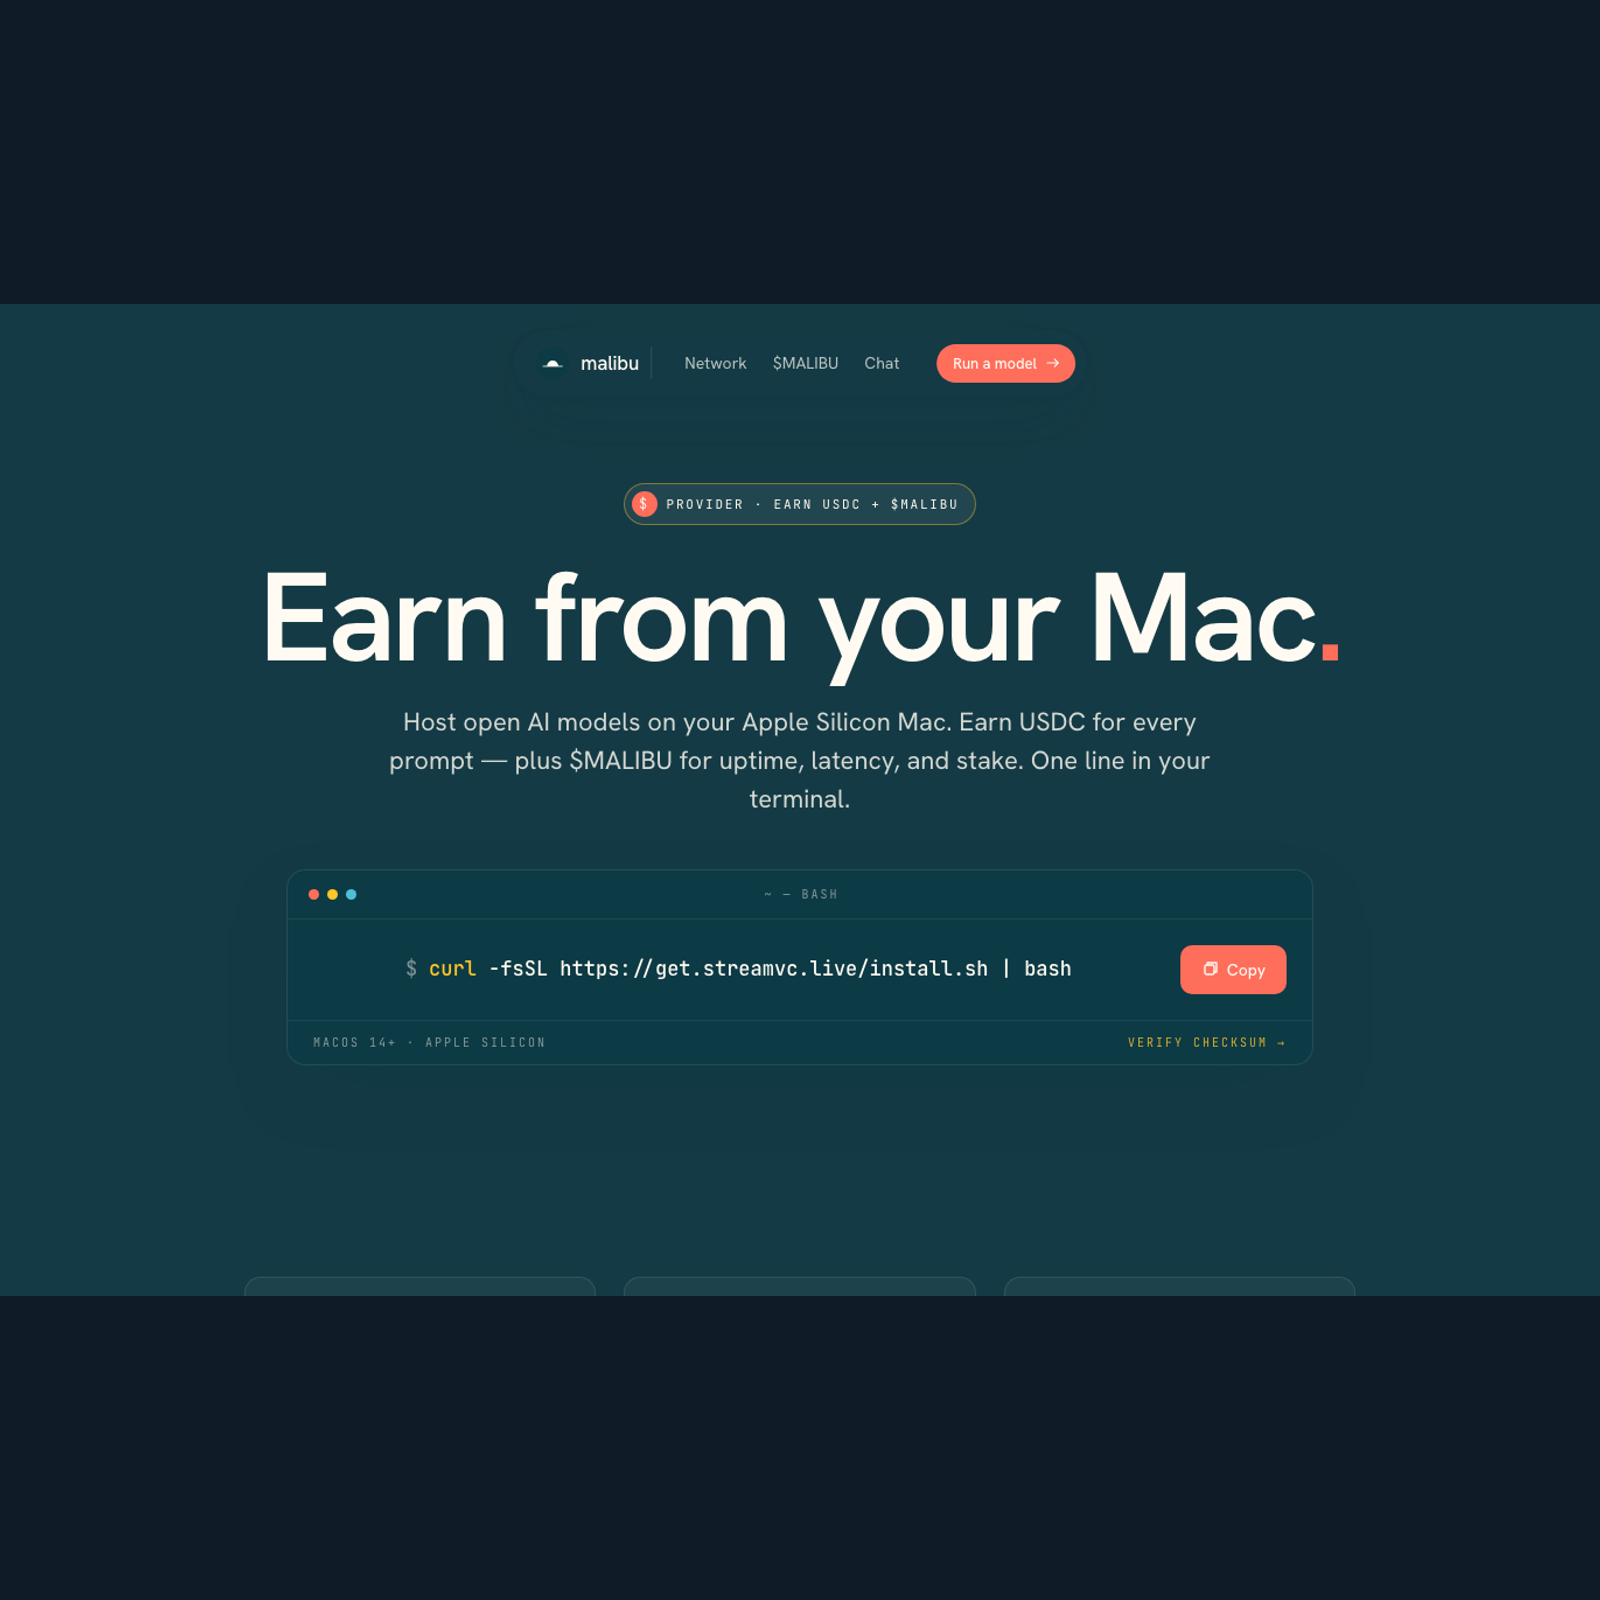
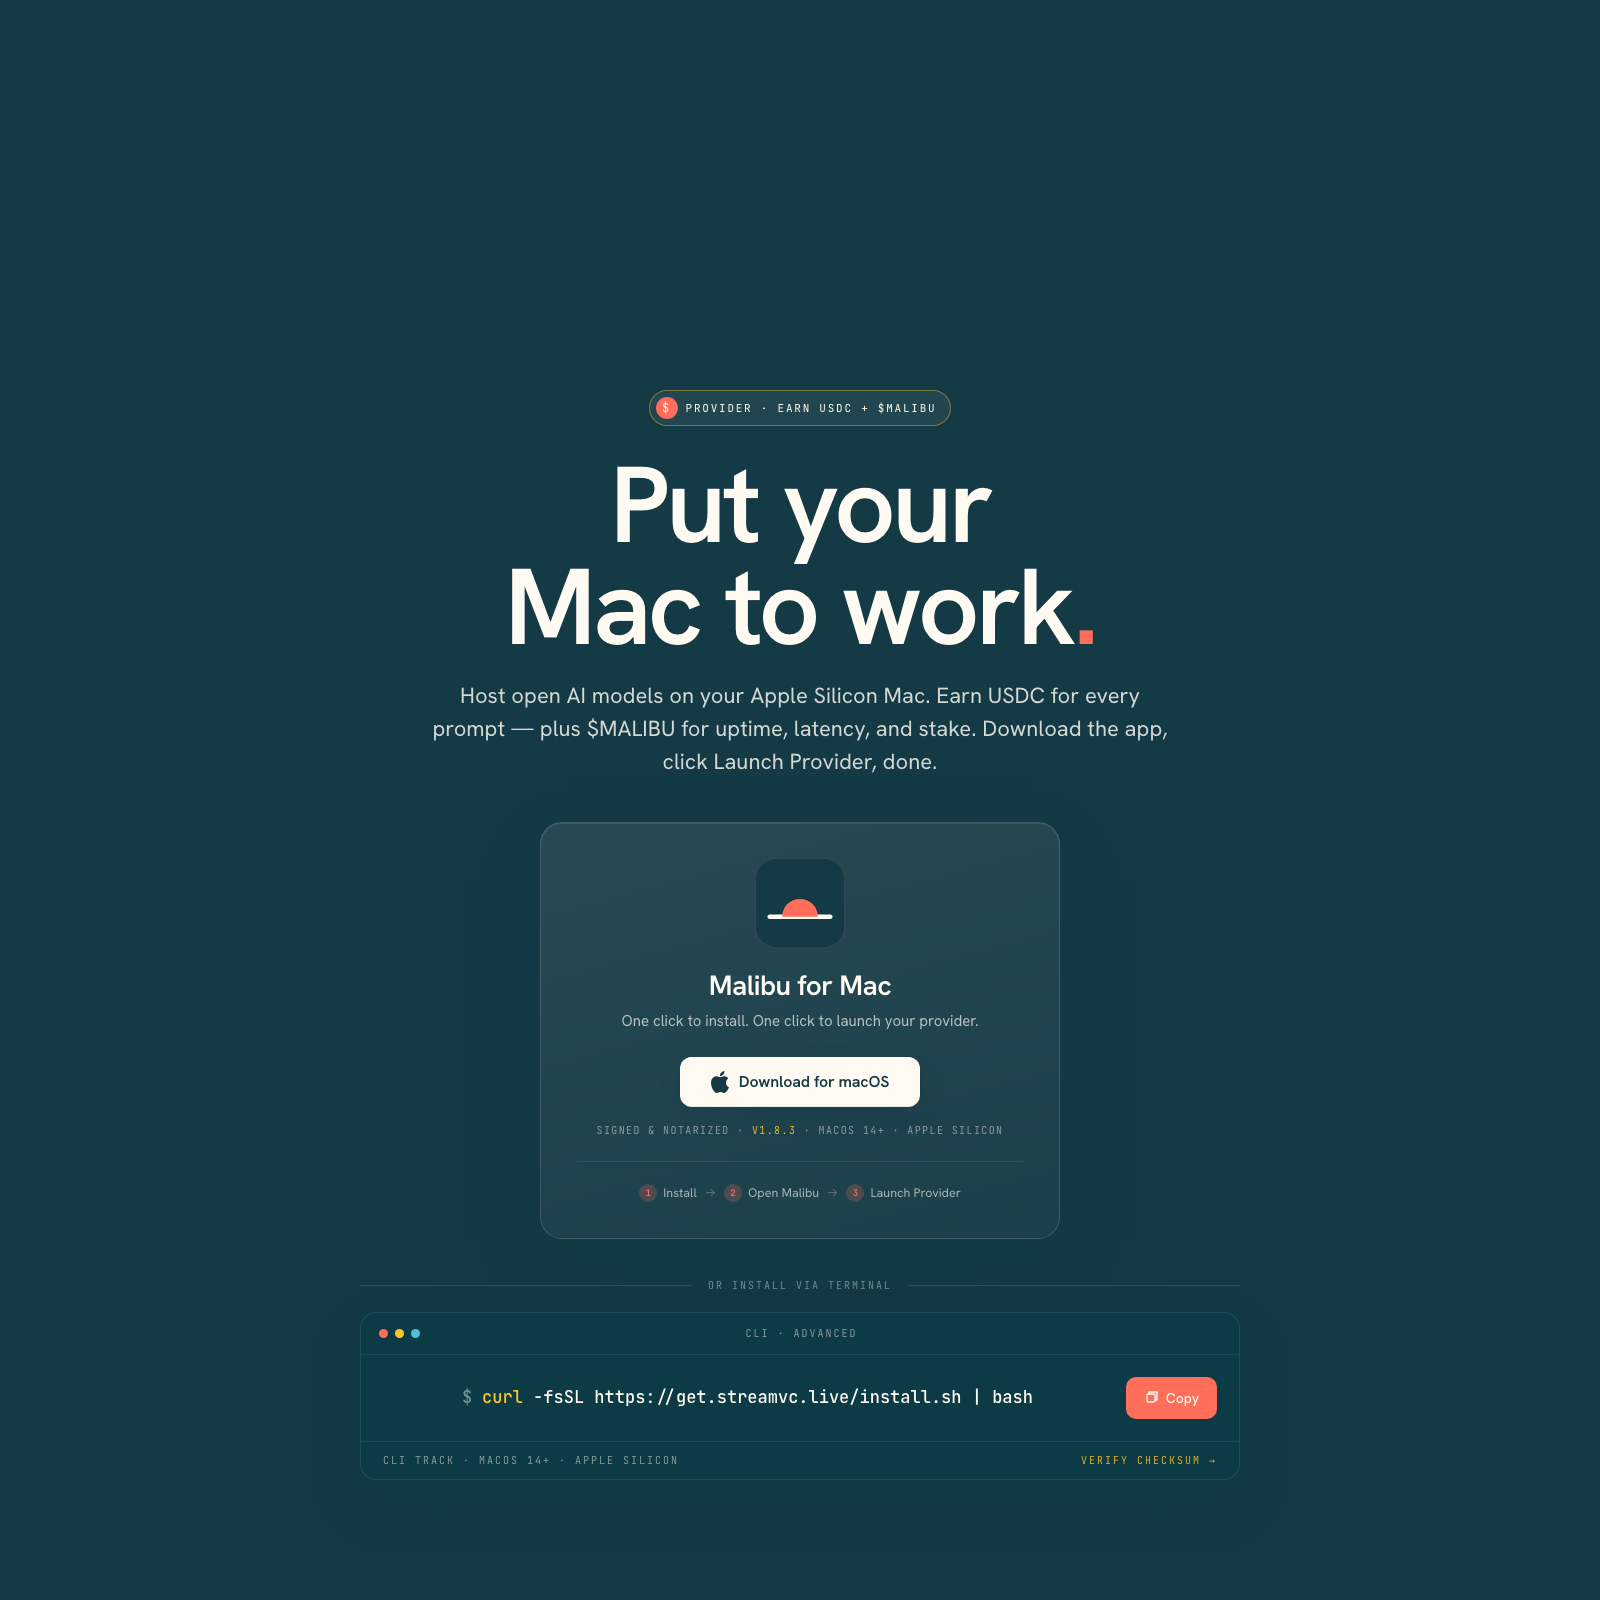
site: rewrite host hero to 'Put your Mac to work' and refresh tile mockup
Update /host/ hero headline and regenerate the Host tile mockup image to match. Strip nav from the mockup and pad the top so the full 'Put your / Mac to work.' title reads inside the tile crop, plus a bottom fade so the download card blends into the tile background.

diff --git a/index.html b/index.html
@@ -177,7 +177,7 @@
               <img src="/images/brand/card-sell-mac-window.png" alt="Malibu host app earning from a Mac" style="position: absolute; inset: 0; width: 100%; height: 100%; object-fit: cover;" />
             </picture>
             <div aria-hidden="true" style="position: absolute; inset: 0; background: linear-gradient(180deg, rgba(79, 191, 212,0.30) 0%, transparent 35%); pointer-events: none;"></div>
-            <div aria-hidden="true" style="position: absolute; inset: 0; background: linear-gradient(180deg, transparent 60%, rgba(12, 58, 69,0.42) 100%); pointer-events: none;"></div>
+            <div aria-hidden="true" style="position: absolute; inset: 0; background: linear-gradient(180deg, transparent 60%, rgba(12, 58, 69,0.35) 100%); pointer-events: none;"></div>
           </div>
           <div style="position: absolute; left: 0; right: 0; top: 0; height: 38%; display: flex; flex-direction: column; align-items: center; justify-content: center; gap: 14px; padding: 40px 32px 0; text-align: center;">
             <div style="display: inline-flex; align-items: center; gap: 12px;">

diff --git a/host/index.html b/host/index.html
@@ -142,7 +142,7 @@
       <span class="b">$</span>
       <span>Provider · earn USDC + $MALIBU</span>
     </div>
-    <h1>Earn from your Mac<span class="dot">.</span></h1>
+    <h1>Put your Mac to work<span class="dot">.</span></h1>
     <p class="sub">Host open AI models on your Apple Silicon Mac. Earn USDC for every prompt — plus $MALIBU for uptime, latency, and stake. Download the app, click Launch Provider, done.</p>
 
     <div class="download-card" role="region" aria-label="Download Malibu for macOS">
